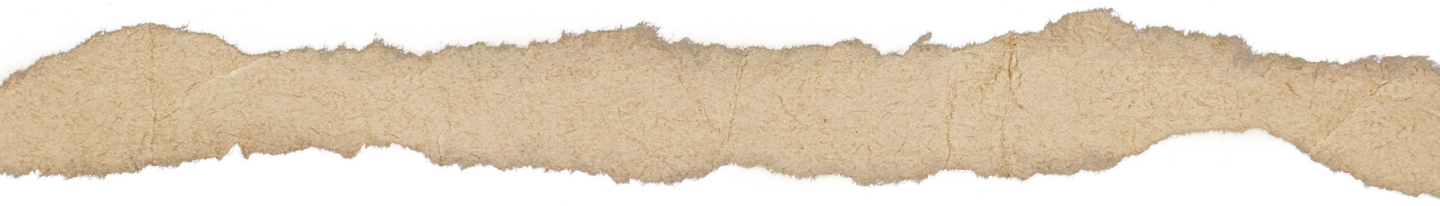
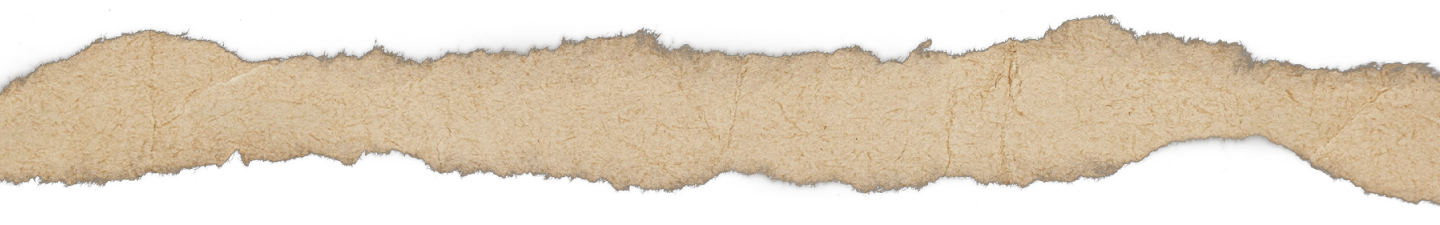
strappi and app azienda & app cliente fixed

diff --git a/app.html b/app.html
@@ -76,10 +76,10 @@
     <div class="row mt-3">
         <div class="col-md-5 offset-md-1">
             <h2>L'applicazione</h2>
-            <p>L’<b>applicazione di iFarm</b> ti permette di mantenere costantemente aperta una comunicazione tra agricoltore e utente. Entrambe le parti possono accedere all’applicazione visionando solo ciò che li riguarda.</p>
+            <p>L’<strong>applicazione di iFarm</strong> ti permette di mantenere costantemente aperta una comunicazione tra agricoltore e utente. Entrambe le parti possono accedere all’applicazione visionando solo ciò che li riguarda.</p>
 
             <div class="row mb-3" id="download-app">
-                <p>Scarica l'<b>app iFarm</b></p>
+                <p>Scarica l'<strong>app iFarm</strong></p>
                 <div class="col-6 col-md-5" >
                     <svg class="badge w-100" viewBox="0 0 138 38" fill="none" xmlns="http://www.w3.org/2000/svg">
                         <path d="M8.86133 37.998C8.50476 37.998 8.15681 37.9941 7.80304 37.9874C7.07017 37.9793 6.33902 37.9251 5.61558 37.8254C4.941 37.7267 4.28752 37.5433 3.67669 37.2811C3.07145 37.021 2.51943 36.68 2.04177 36.2712C1.5572 35.8671 1.15376 35.3985 0.847464 34.8839C0.537789 34.3659 0.323475 33.8107 0.211989 33.2376C0.0915931 32.6218 0.026454 31.9991 0.0171333 31.3749C0.00971356 31.1654 0 30.4679 0 30.4679V7.51947C0 7.51947 0.0103455 6.83262 0.0171918 6.63083C0.0261164 6.00764 0.0908767 5.38594 0.210912 4.77109C0.322605 4.19642 0.537084 3.63961 0.846926 3.11994C1.1521 2.60566 1.55329 2.13669 2.03495 1.7312C2.51606 1.32186 3.06985 0.979111 3.67611 0.715465C4.28554 0.454082 4.93779 0.271929 5.611 0.175109C6.33682 0.0743431 7.07051 0.0198644 7.80592 0.0121296L8.86191 0H129.132L130.201 0.0126164C130.93 0.0199668 131.657 0.0739595 132.376 0.174135C133.056 0.27217 133.715 0.455594 134.331 0.718376C135.546 1.2497 136.534 2.0903 137.158 3.12236C137.463 3.63845 137.674 4.19072 137.784 4.76042C137.905 5.38031 137.973 6.0069 137.987 6.6352C137.991 6.91653 137.991 7.21873 137.991 7.51947C138 7.892 138 8.24658 138 8.60407V29.3949C138 29.7558 138 30.1079 137.991 30.463C137.991 30.786 137.991 31.082 137.986 31.3866C137.973 32.0036 137.906 32.619 137.786 33.2278C137.677 33.8051 137.464 34.3646 137.154 34.8868C136.846 35.3959 136.445 35.8605 135.966 36.2634C135.488 36.6745 134.935 37.0175 134.328 37.2792C133.713 37.5434 133.055 37.7275 132.376 37.8254C131.652 37.9257 130.921 37.9798 130.188 37.9874C129.846 37.9941 129.487 37.998 129.138 37.998L127.869 38L8.86133 37.998Z" fill="black"/>
@@ -124,7 +124,7 @@
     <div class="row mt-5 align-items-center">
         <div class="col-md-4 offset-md-1">
             <h2>Sperimenta la natura</h2>
-            <p>Tramite l’applicazione è possibile visualizzare le proposte degli agricoltori <b>prenotandole comodamente dal cellulare</b>. Stare a contatto con la natura e con gli animali è vantaggioso non solo per i più piccoli, ma anche per gli adulti!</p>
+            <p>Tramite l’applicazione è possibile visualizzare le proposte degli agricoltori <strong>prenotandole comodamente dal cellulare</strong>. Stare a contatto con la natura e con gli animali è vantaggioso non solo per i più piccoli, ma anche per gli adulti!</p>
         </div>
         <div class="col-md-5 offset-md-1">
             <img class="w-100" src="src/App/app.png">

diff --git a/app-azienda.html b/app-azienda.html
@@ -75,37 +75,39 @@
 </div>
 <div class="container pb-5">
     <div class="row mt-3">
-        <div class="col-12 col-md-4 offset-md-1">
+        <div class="col-12 col-md-4 offset-md-1 order-1 order-md-0">
             <img class="w-100" src="src/App/App-azienda/login.png">
         </div>
-        <div class="col-12 col-md-5 offset-md-1">
+        <div class="col-12 col-md-5 offset-md-1 order-0 order-md-1">
             <h2>Fatti conoscere</h2>
-            <p>Se sei un agricoltore che vuole aprire la sua azienda e far sperimentare le meraviglie della natura, preparati a farlo il più comodamente possibile. Abbiamo pensato a una versione dell’applicazione <b>dedicata agli agricoltori</b>.</p>
+            <p>Se sei un agricoltore che vuole aprire la sua azienda e far sperimentare le meraviglie della natura, preparati a farlo il più comodamente possibile. Abbiamo pensato a una versione dell’applicazione <strong>dedicata agli agricoltori</strong>.</p>
         </div>
     </div>
     <div class="row mt-md-5 mb-md-5 align-items-center">
-        <div class="col-12 col-md-3 offset-md-1">
-            <p>Crea il tuo profilo tramite la nostra applicazione e fai conoscere a tutti il tuo lavoro e i frutti della tua passione!
-                Scrivi una breve <b>descrizione</b> su di te e fai sapere a tutti le esperienze che puoi proporre. </p>
+        <div class="col-12 col-md-3 offset-md-1 order-0 order-md-0">
+            <p>Crea il tuo <strong>profilo</strong> tramite la nostra applicazione e fai conoscere a tutti il tuo lavoro e i frutti della tua passione!
+                Scrivi una <strong>breve descrizione</strong> su di te e fai sapere a tutti le esperienze che puoi proporre. </p>
         </div>
-        <div class=" col-12col-md-7">
+        <div class=" col-12 col-md-7 order-1 order-md-1">
             <img class="w-100" src="src/App/App-azienda/login_prodotto.png">
         </div>
     </div>
     <div class="row mb-5 align-items-center">
-        <div class="col-12 col-md-4 offset-md-1">
+        <div class="col-12 col-md-4 offset-md-1 order-1 order-md-0">
             <img class="w-100" src="src/App/App-azienda/dashboard.png">
         </div>
-        <div class="col-12 col-md-5 offset-md-1">
-            <p>Visualizza facilamete i tuoi <b>traguardi</b> e i tuoi obiettivi futuri e scopri come si sono trovati gli utenti presso la tua azienda.
-                <br><br>
+        <div class="col-12 col-md-5 offset-md-1 order-0 order-md-1 mt-md-0 mt-4">
+            <p>
+                Visualizza facilamete i tuoi <strong>traguardi</strong> e i tuoi obiettivi futuri e scopri come si sono trovati gli utenti presso la tua azienda.
+            </p>
+            <p>
                 Quando a qualcuno piace particolarmente la tua azienda, la salverà schiacciando il cuoricino.
             </p>
         </div>
     </div>
     <div class="row align-items-center">
         <div class="col-4 col-md-4 offset-4">
-            <p class="text-center">Scarica l'<b>app iFarm</b></p>
+            <p class="text-center">Scarica l'<strong>app iFarm</strong>!</p>
         </div>
     </div>
     <div class="row mb-3" id="download-app">

diff --git a/app-cliente.html b/app-cliente.html
@@ -74,36 +74,36 @@
 </div>
 <div class="container pb-5">
     <div class="row mt-3">
-        <div class="col-md-4 offset-md-1">
+        <div class="col-md-4 offset-md-1 order-1 order-md-0">
             <img class="w-100" src="src/App/App-cliente/profilo.png">
         </div>
-        <div class="col-md-5 offset-md-1">
+        <div class="col-md-5 offset-md-1 order-0 order-md-1">
             <h2>A contatto con la natura</h2>
             <p>Se sei interessato al mondo della natura e vuoi lasciarti sorprendere,dirigiti verso la sezione a te dedicata. Per usufruire delle esperienze che trovi nella nostra applicazione, abbiamo pensato a una versione clienti dell’applicazione.</p>
         </div>
     </div>
     <div class="row mt-md-5 mb-md-5 align-items-center">
-        <div class="col-md-3 offset-md-1">
-            <p>Naviga comodamente sulla <b>mappa</b> e spostati di regione in regione per entrare nelle aziende agricole di tutta Italia!
-                Scegli l’azienda che più ti piace e <b>aiutala a migliorarsi</b>. <br>
+        <div class="col-md-3 offset-md-1 order-0 order-md-0">
+            <p>Naviga comodamente sulla <strong>mappa</strong> e spostati di regione in regione per entrare nelle aziende agricole di tutta Italia!
+                Scegli l’azienda che più ti piace e <strong>aiutala a migliorarsi</strong>. <br>
                 Potrai monitorare, attraverso l’applicazione, il livello raggiunto dalle varie aziende in relazione agli obiettivi della timeline. </p>
         </div>
-        <div class="col-md-8">
+        <div class="col-md-8 order-1 order-md-1">
             <img class="w-100" src="src/App/App-cliente/mappa_azienda.png">
         </div>
     </div>
     <div class="row mb-5 align-items-center">
-        <div class="col-md-4 offset-md-1">
+        <div class="col-md-4 offset-md-1 order-1 order-md-0">
             <img class="w-100" src="src/App/App-cliente/aia.png">
         </div>
-        <div class="col-md-5 offset-md-1">
+        <div class="col-md-5 offset-md-1 order-0 order-md-1 mt-mb-0 mt-4">
             <p>Potrai inoltre scegliere, tramite il profilo dell’azienda, le esperienze che più ti piaccono e più ti stupiscono, tra una serie di proposte. <br>
-                Entra a contatto con gli animali e lasciati stupire dalla quantità di attività che è possibile svolgere in un’<b>azienda agricola</b>.</p>
+                Entra a contatto con gli animali e lasciati stupire dalla quantità di attività che è possibile svolgere in <strong>un’azienda agricola</strong>.</p>
         </div>
     </div>
     <div class="row align-items-center">
         <div class="col-4 offset-4">
-            <p class="text-center">Scarica l'<b>app iFarm</b></p>
+            <p class="text-center">Scarica l'<strong>app iFarm</strong>!</p>
         </div>
     </div>
     <div class="row mb-3" id="download-app">

diff --git a/mission.html b/mission.html
@@ -74,7 +74,7 @@
 
 <div id="panel-mission" class="d-grid">
     <div id="animation-container"></div>
-    <img  class="w-100" src="src/prova.copertina.webp">
+    <img  class="w-100" src="src/Mission/copertina.webp">
     <!--div class="content">
         <h1>I nostri ideali</h1>
     </div-->
@@ -85,7 +85,7 @@
     <div class="row mt-3">
         <div class="col-md-5 offset-md-1">
             <h2>Il progetto iFarm</h2>
-            <p>iFarm è un <b>progetto innovativo</b> che ha l’obiettivo di intersecare natura e tecnologie moderne. L’intersezione tra i due mondi deriva dall’utilizzo di tecnologie che hanno come obiettivo quello di sostenere e alleggerire il lavoro degli agricoltori. iFarm vuole creare un ponte tra le aziende agricole e tutti coloro che hanno il desiderio di avvicinarsi al mondo della natura sperimentando in prima persona la vita del contadino.
+            <p>iFarm è un <strong>progetto innovativo</strong> che ha l’obiettivo di intersecare natura e tecnologie moderne. L’intersezione tra i due mondi deriva dall’utilizzo di tecnologie che hanno come obiettivo quello di sostenere e alleggerire il lavoro degli agricoltori. iFarm vuole creare un ponte tra le aziende agricole e tutti coloro che hanno il desiderio di avvicinarsi al mondo della natura sperimentando in prima persona la vita del contadino.
             </p>
             <p>È possibile per l’utente contribuire tramite delle donazioni alle aziende o tramite l’acquisto di esperienze da svolgere nell’azienda agricola da loro selezionata. Le donazioni alle aziende possono essere monitorate sia dall’utente che dall’agricoltore tramite una timeline che mostra gli obiettivi sbloccati al raggiungimento di un determinato livello di donazioni. I nuovi traguardi raggiunti consentono alle aziende di ricevere nuove tecnologie da inserire nei loro terreni.
             </p>
@@ -423,6 +423,11 @@
         loop: true,
         autoplay: true,
         name: "Demo Animation",
+        rendererSettings: {
+            preserveAspectRatio: 'xMidYMid slice',
+            width: '100%',
+            height: '100%',
+        }
     });
 </script>
 </body>

diff --git a/index.html b/index.html
@@ -136,7 +136,8 @@
     <div class="swiper-slide" id="panel4">
       <div class="content">
         <div class="d-grid">
-          <img class="vw-100 paper" src="src/Home/strappo4.png">
+          <img class="vw-100 d-none paper" src="src/Home/strappo4.png" id="paper-normal">
+          <img class="vw-100 d-block paper" src="src/Home/strappo4-high.png" id="paper-high">
           <div class="container align-self-center">
             <h1>Azienda e cliente</h1>
           </div>
@@ -247,6 +248,29 @@
       clickable: true,
     }
   });
+</script>
+<script>
+  function countLines(){
+    var divHeight = $('#panel4 h1').outerHeight();
+    var lineHeight = parseInt($('#panel4 h1').css("line-height").replace("px",""));
+    var lines = Math.floor(divHeight / lineHeight);
+
+    if(lines>1){
+      $('#paper-normal').removeClass('d-block');
+      $('#paper-normal').addClass('d-none');
+      $('#paper-high').removeClass('d-none');
+      $('#paper-high').addClass('d-block');
+    }
+    else{
+      $('#paper-normal').removeClass('d-none');
+      $('#paper-normal').addClass('d-block');
+      $('#paper-high').removeClass('d-block');
+      $('#paper-high').addClass('d-none');
+    }
+  }
+
+  $(document).ready(countLines);
+  $(window).resize(countLines);
 </script>
 </body>
 

diff --git a/style.css b/style.css
@@ -105,7 +105,6 @@ footer p{
     }
 
 }
-
 :root {
     --primary: #0C492A;
     --secondary: #B6EC4C;
@@ -412,9 +411,6 @@ button.collapsed{
     grid-row-start: 2;
     grid-row-end: 2;
 }
-.paper{
-    height: 6rem;
-}
 #top-footer{
     grid-column-start: 1;
     grid-column-end: 1;
@@ -495,13 +491,22 @@ button.collapsed{
     grid-row-start: 1;
     grid-row-end: 1;
 }
-
 #animation-container{
     grid-column-start: 1;
     grid-column-end: 1;
     grid-row-start: 1;
     grid-row-end: 1;
 }
+#animation-container svg{
+    width: 100% !important;
+    transform: translate3d(0px, 0px, 0px);
+    content-visibility: visible;
+    display: inline-block;
+}
+#panel-mission img{
+      object-fit: cover;
+      object-position: top;
+  }
 
 #container-des{
     grid-template-areas: "card1 . card3 . card5" "timeline timeline timeline timeline timeline" ". card2 . card4 .";
@@ -857,6 +862,10 @@ a .card{
 }
 .hide{
     display: none;
+}
+#download-app svg:hover{
+    transform: scale(1.05);
+    cursor: pointer;
 }
 /*
 .icon-experiences1{

diff --git a/shop.html b/shop.html
@@ -85,7 +85,7 @@
     <div class="row">
         <div class="col-sm-8 offset-sm-2">
             <h2>Prodotti</h2>
-            <p><b>Dalla campagna a casa tua:</b> adotta la tua pianta preferita e ricevi al tuo
+            <p><strong>Dalla campagna a casa tua:</strong> adotta la tua pianta preferita e ricevi al tuo
                 indirizzo i suoi prodotti, frutta e verdure genuine direttamente sulla tua tavola.</p>
         </div>
     </div>
@@ -440,7 +440,7 @@
     </div>
     <div class="row align-items-center">
         <div class="col-4 offset-4">
-            <p class="text-center">Scarica l'<b>app iFarm</b></p>
+            <p class="text-center">Scarica l'<strong>app iFarm</strong>!</p>
         </div>
     </div>
     <div class="row mb-3" id="download-app">
